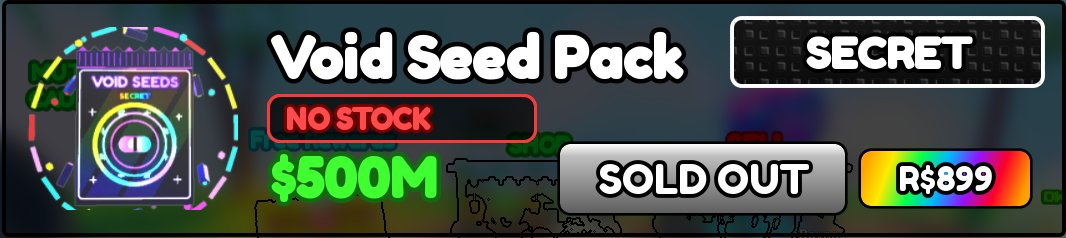
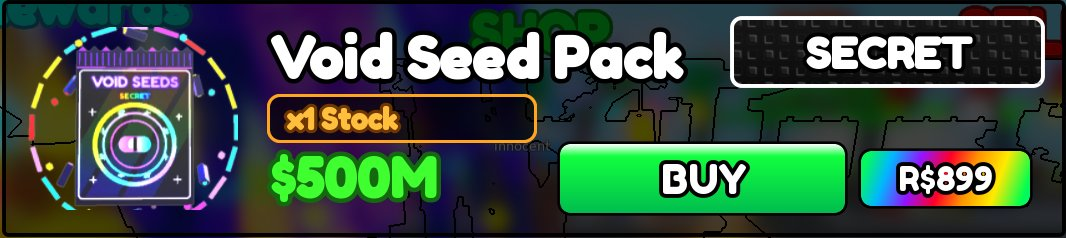
Mise a jour des stats

diff --git a/historique.js b/historique.js
@@ -1,4 +1,4 @@
-window.HISTORY = [["2026-10-14T00:55:39", "debut", "", ""], ["2026-10-14T01:25:29", "stock", "seed", "Spooky Seed Pack"], ["2026-10-14T01:30:10", "stock", "seed", "Celestial Seed Pack"], ["2026-10-14T02:05:31", "stock", "seed", "Spooky Seed Pack"], ["2026-10-14T02:40:12", "stock", "seed", "Celestial Seed Pack"], ["2026-10-14T02:40:12", "fin", "", ""], ["2026-10-14T06:29:55", "debut", "", ""], ["2026-10-14T07:09:20", "stock", "eggs", "Inferno Egg"], ["2026-10-14T07:09:22", "stock", "eggs", "Solar Egg"], ["2026-10-14T08:30:22", "stock", "seed", "Celestial Seed Pack"], ["2026-10-14T09:46:36", "fin", "", ""], ["2026-10-14T10:49:48", "debut", "", ""], ["2026-10-14T11:17:42", "fin", "", ""], ["2026-10-14T11:25:19", "debut", "", ""], ["2026-10-14T11:56:44", "fin", "", ""], ["2026-10-14T12:49:54", "debut", "", ""], ["2026-10-14T14:45:01", "stock", "seed", "Celestial Seed Pack"], ["2026-10-14T16:45:05", "stock", "seed", "Spooky Seed Pack"], ["2026-10-14T18:32:27", "stock", "seed", "Celestial Seed Pack"], ["2026-10-14T18:35:08", "stock", "seed", "Mutant Seed Pack"], ["2026-10-14T19:00:28", "stock", "seed", "Void Seed Pack"], ["2026-10-14T19:09:54", "fin", "", ""], ["2026-10-14T19:15:13", "debut", "", ""], ["2026-10-14T19:15:38", "stock", "seed", "Spooky Seed Pack"], ["2026-10-14T19:19:49", "fin", "", ""], ["2026-10-14T19:21:52", "debut", "", ""], ["2026-10-14T19:35:38", "stock", "seed", "Mutant Seed Pack"], ["2026-10-14T20:10:19", "stock", "seed", "Mutant Seed Pack"], ["2026-10-14T20:28:39", "stock", "eggs", "Inferno Egg"], ["2026-10-14T20:45:00", "stock", "seed", "Mutant Seed Pack"], ["2026-10-14T20:45:02", "stock", "seed", "Celestial Seed Pack"], ["2026-10-14T20:55:00", "stock", "seed", "Mutant Seed Pack"], ["2026-10-14T21:35:29", "fin", "", ""], ["2026-10-14T23:15:27", "debut", "", ""], ["2026-10-14T23:25:12", "stock", "seed", "Celestial Seed Pack"], ["2026-10-14T23:35:12", "stock", "seed", "Spooky Seed Pack"], ["2026-10-14T23:45:13", "stock", "seed", "Celestial Seed Pack"], ["2026-10-14T23:55:13", "stock", "seed", "Void Seed Pack"], ["2026-10-15T01:07:19", "fin", "", ""], ["2026-10-15T01:20:12", "debut", "", ""], ["2026-10-15T01:20:28", "fin", "", ""], ["2026-10-15T01:20:33", "debut", "", ""], ["2026-10-15T01:25:03", "stock", "seed", "Mutant Seed Pack"], ["2026-10-15T02:15:00", "stock", "seed", "Spooky Seed Pack"], ["2026-10-15T02:22:36", "stock", "eggs", "Inferno Egg"], ["2026-10-15T02:22:56", "stock", "eggs", "Inferno Egg"], ["2026-10-15T02:23:16", "stock", "eggs", "Inferno Egg"], ["2026-10-15T02:23:36", "stock", "eggs", "Inferno Egg"], ["2026-10-15T02:27:40", "fin", "", ""], ["2026-10-15T02:28:43", "debut", "", ""], ["2026-10-15T02:32:00", "fin", "", ""], ["2026-10-15T02:35:35", "debut", "", ""], ["2026-10-15T02:45:20", "stock", "seed", "Celestial Seed Pack"], ["2026-10-15T02:45:40", "stock", "eggs", "Solar Egg"], ["2026-10-15T02:50:00", "stock", "seed", "Mutant Seed Pack"], ["2026-10-15T05:20:04", "stock", "seed", "Spooky Seed Pack"], ["2026-10-15T05:25:24", "stock", "seed", "Void Seed Pack"], ["2026-10-15T05:55:25", "stock", "seed", "Mutant Seed Pack"], ["2026-10-15T07:15:27", "stock", "seed", "Celestial Seed Pack"], ["2026-10-15T07:30:07", "stock", "seed", "Celestial Seed Pack"], ["2026-10-15T07:50:08", "stock", "seed", "Mutant Seed Pack"], ["2026-10-15T08:04:28", "stock", "eggs", "Sealed Eye Egg"], ["2026-10-15T08:45:29", "stock", "seed", "Celestial Seed Pack"], ["2026-10-15T09:50:11", "stock", "seed", "Mutant Seed Pack"], ["2026-10-15T09:50:14", "stock", "seed", "Celestial Seed Pack"], ["2026-10-15T10:30:12", "stock", "seed", "Mutant Seed Pack"], ["2026-10-15T11:03:05", "fin", "", ""], ["2026-10-15T11:13:30", "debut", "", ""], ["2026-10-15T11:17:01", "fin", "", ""], ["2026-10-15T12:26:22", "debut", "", ""], ["2026-10-15T12:35:27", "stock", "seed", "Mutant Seed Pack"], ["2026-10-15T13:00:07", "stock", "seed", "Void Seed Pack"], ["2026-10-15T13:01:59", "fin", "", ""], ["2026-10-15T13:03:01", "debut", "", ""], ["2026-10-15T13:05:26", "stock", "seed", "Celestial Seed Pack"], ["2026-10-15T13:10:06", "stock", "seed", "Mutant Seed Pack"], ["2026-10-15T13:10:43", "fin", "", ""], ["2026-10-15T13:11:47", "debut", "", ""], ["2026-10-15T14:30:14", "stock", "seed", "Spooky Seed Pack"], ["2026-10-15T14:40:14", "stock", "seed", "Mutant Seed Pack"], ["2026-10-15T16:37:57", "stock", "eggs", "Inferno Egg"], ["2026-10-15T16:50:18", "stock", "seed", "Spooky Seed Pack"], ["2026-10-15T17:15:38", "stock", "seed", "Void Seed Pack"], ["2026-10-15T18:45:01", "stock", "seed", "Spooky Seed Pack"], ["2026-10-15T19:15:02", "stock", "seed", "Mutant Seed Pack"], ["2026-10-15T20:45:00", "stock", "seed", "Celestial Seed Pack"], ["2026-10-15T21:27:32", "fin", "", ""], ["2026-10-15T21:33:02", "debut", "", ""], ["2026-10-15T23:10:29", "fin", "", ""], ["2026-10-16T00:20:07", "debut", "", ""], ["2026-10-16T00:52:33", "stock", "seed", "Mutant Seed Pack"], ["2026-10-16T01:20:34", "stock", "seed", "Mutant Seed Pack"], ["2026-10-16T01:20:34", "stock", "seed", "Celestial Seed Pack"], ["2026-10-16T02:00:35", "stock", "seed", "Spooky Seed Pack"], ["2026-10-16T02:40:36", "stock", "seed", "Spooky Seed Pack"], ["2026-10-16T02:45:16", "stock", "seed", "Spooky Seed Pack"], ["2026-10-16T03:55:17", "stock", "seed", "Mutant Seed Pack"], ["2026-10-16T04:10:38", "stock", "seed", "Mutant Seed Pack"], ["2026-10-16T05:50:00", "stock", "seed", "Spooky Seed Pack"], ["2026-10-16T06:35:21", "stock", "seed", "Spooky Seed Pack"], ["2026-10-16T06:40:01", "stock", "seed", "Celestial Seed Pack"], ["2026-10-16T06:50:01", "stock", "seed", "Void Seed Pack"], ["2026-10-16T07:10:02", "stock", "seed", "Mutant Seed Pack"], ["2026-10-16T08:32:47", "fin", "", ""], ["2026-10-16T08:48:47", "debut", "", ""], ["2026-10-16T08:50:31", "stock", "seed", "Void Seed Pack"], ["2026-10-16T09:00:32", "stock", "seed", "Mutant Seed Pack"], ["2026-10-16T09:24:32", "fin", "", ""], ["2026-10-16T09:25:26", "debut", "", ""], ["2026-10-16T09:45:11", "stock", "seed", "Void Seed Pack"], ["2026-10-16T10:20:32", "stock", "seed", "Void Seed Pack"], ["2026-10-16T11:10:33", "stock", "seed", "Spooky Seed Pack"], ["2026-10-16T11:28:53", "stock", "eggs", "Solar Egg"], ["2026-10-16T12:10:34", "stock", "seed", "Spooky Seed Pack"], ["2026-10-16T13:03:50", "fin", "", ""], ["2026-10-16T13:08:05", "debut", "", ""], ["2026-10-16T13:15:29", "stock", "eggs", "Solar Egg"], ["2026-10-16T14:37:31", "stock", "eggs", "Inferno Egg"], ["2026-10-16T15:07:31", "fin", "", ""], ["2026-10-16T15:12:42", "debut", "", ""], ["2026-10-16T15:35:07", "stock", "seed", "Celestial Seed Pack"], ["2026-10-16T16:00:28", "stock", "seed", "Mutant Seed Pack"], ["2026-10-16T16:20:28", "stock", "seed", "Celestial Seed Pack"], ["2026-10-16T17:55:11", "stock", "seed", "Celestial Seed Pack"], ["2026-10-16T19:10:33", "stock", "seed", "Void Seed Pack"], ["2026-10-16T19:23:33", "stock", "eggs", "Inferno Egg"], ["2026-10-16T19:26:13", "stock", "eggs", "Sealed Eye Egg"], ["2026-10-16T19:30:08", "fin", "", ""], ["2026-10-16T19:31:11", "debut", "", ""], ["2026-10-16T19:40:16", "stock", "seed", "Mutant Seed Pack"], ["2026-10-16T21:02:37", "fin", "", ""], ["2026-10-16T23:01:21", "debut", "", ""], ["2026-10-16T23:01:30", "fin", "", ""], ["2026-10-16T23:03:40", "debut", "", ""], ["2026-10-16T23:03:43", "fin", "", ""], ["2026-10-16T23:06:38", "debut", "", ""], ["2026-10-16T23:06:41", "fin", "", ""], ["2026-10-16T23:09:21", "debut", "", ""], ["2026-10-16T23:09:29", "fin", "", ""], ["2026-10-16T23:15:48", "debut", "", ""], ["2026-10-17T00:00:14", "stock", "seed", "Spooky Seed Pack"], ["2026-10-17T00:21:33", "fin", "", ""], ["2026-10-17T00:35:25", "debut", "", ""], ["2026-10-17T00:35:49", "stock", "seed", "Spooky Seed Pack"], ["2026-10-17T00:35:55", "fin", "", ""], ["2026-10-17T00:55:32", "debut", "", ""], ["2026-10-17T00:55:59", "stock", "seed", "Celestial Seed Pack"], ["2026-10-17T00:56:02", "fin", "", ""], ["2026-10-17T01:10:53", "debut", "", ""], ["2026-10-17T01:10:58", "stock", "eggs", "Sealed Eye Egg"], ["2026-10-17T01:11:17", "stock", "seed", "Spooky Seed Pack"], ["2026-10-17T01:11:23", "fin", "", ""], ["2026-10-17T01:50:53", "debut", "", ""], ["2026-10-17T02:00:38", "stock", "seed", "Celestial Seed Pack"], ["2026-10-17T02:32:19", "stock", "eggs", "Inferno Egg"]];
+window.HISTORY = [["2026-10-14T00:55:39", "debut", "", ""], ["2026-10-14T01:25:29", "stock", "seed", "Spooky Seed Pack"], ["2026-10-14T01:30:10", "stock", "seed", "Celestial Seed Pack"], ["2026-10-14T02:05:31", "stock", "seed", "Spooky Seed Pack"], ["2026-10-14T02:40:12", "stock", "seed", "Celestial Seed Pack"], ["2026-10-14T02:40:12", "fin", "", ""], ["2026-10-14T06:29:55", "debut", "", ""], ["2026-10-14T07:09:20", "stock", "eggs", "Inferno Egg"], ["2026-10-14T07:09:22", "stock", "eggs", "Solar Egg"], ["2026-10-14T08:30:22", "stock", "seed", "Celestial Seed Pack"], ["2026-10-14T09:46:36", "fin", "", ""], ["2026-10-14T10:49:48", "debut", "", ""], ["2026-10-14T11:17:42", "fin", "", ""], ["2026-10-14T11:25:19", "debut", "", ""], ["2026-10-14T11:56:44", "fin", "", ""], ["2026-10-14T12:49:54", "debut", "", ""], ["2026-10-14T14:45:01", "stock", "seed", "Celestial Seed Pack"], ["2026-10-14T16:45:05", "stock", "seed", "Spooky Seed Pack"], ["2026-10-14T18:32:27", "stock", "seed", "Celestial Seed Pack"], ["2026-10-14T18:35:08", "stock", "seed", "Mutant Seed Pack"], ["2026-10-14T19:00:28", "stock", "seed", "Void Seed Pack"], ["2026-10-14T19:09:54", "fin", "", ""], ["2026-10-14T19:15:13", "debut", "", ""], ["2026-10-14T19:15:38", "stock", "seed", "Spooky Seed Pack"], ["2026-10-14T19:19:49", "fin", "", ""], ["2026-10-14T19:21:52", "debut", "", ""], ["2026-10-14T19:35:38", "stock", "seed", "Mutant Seed Pack"], ["2026-10-14T20:10:19", "stock", "seed", "Mutant Seed Pack"], ["2026-10-14T20:28:39", "stock", "eggs", "Inferno Egg"], ["2026-10-14T20:45:00", "stock", "seed", "Mutant Seed Pack"], ["2026-10-14T20:45:02", "stock", "seed", "Celestial Seed Pack"], ["2026-10-14T20:55:00", "stock", "seed", "Mutant Seed Pack"], ["2026-10-14T21:35:29", "fin", "", ""], ["2026-10-14T23:15:27", "debut", "", ""], ["2026-10-14T23:25:12", "stock", "seed", "Celestial Seed Pack"], ["2026-10-14T23:35:12", "stock", "seed", "Spooky Seed Pack"], ["2026-10-14T23:45:13", "stock", "seed", "Celestial Seed Pack"], ["2026-10-14T23:55:13", "stock", "seed", "Void Seed Pack"], ["2026-10-15T01:07:19", "fin", "", ""], ["2026-10-15T01:20:12", "debut", "", ""], ["2026-10-15T01:20:28", "fin", "", ""], ["2026-10-15T01:20:33", "debut", "", ""], ["2026-10-15T01:25:03", "stock", "seed", "Mutant Seed Pack"], ["2026-10-15T02:15:00", "stock", "seed", "Spooky Seed Pack"], ["2026-10-15T02:22:36", "stock", "eggs", "Inferno Egg"], ["2026-10-15T02:22:56", "stock", "eggs", "Inferno Egg"], ["2026-10-15T02:23:16", "stock", "eggs", "Inferno Egg"], ["2026-10-15T02:23:36", "stock", "eggs", "Inferno Egg"], ["2026-10-15T02:27:40", "fin", "", ""], ["2026-10-15T02:28:43", "debut", "", ""], ["2026-10-15T02:32:00", "fin", "", ""], ["2026-10-15T02:35:35", "debut", "", ""], ["2026-10-15T02:45:20", "stock", "seed", "Celestial Seed Pack"], ["2026-10-15T02:45:40", "stock", "eggs", "Solar Egg"], ["2026-10-15T02:50:00", "stock", "seed", "Mutant Seed Pack"], ["2026-10-15T05:20:04", "stock", "seed", "Spooky Seed Pack"], ["2026-10-15T05:25:24", "stock", "seed", "Void Seed Pack"], ["2026-10-15T05:55:25", "stock", "seed", "Mutant Seed Pack"], ["2026-10-15T07:15:27", "stock", "seed", "Celestial Seed Pack"], ["2026-10-15T07:30:07", "stock", "seed", "Celestial Seed Pack"], ["2026-10-15T07:50:08", "stock", "seed", "Mutant Seed Pack"], ["2026-10-15T08:04:28", "stock", "eggs", "Sealed Eye Egg"], ["2026-10-15T08:45:29", "stock", "seed", "Celestial Seed Pack"], ["2026-10-15T09:50:11", "stock", "seed", "Mutant Seed Pack"], ["2026-10-15T09:50:14", "stock", "seed", "Celestial Seed Pack"], ["2026-10-15T10:30:12", "stock", "seed", "Mutant Seed Pack"], ["2026-10-15T11:03:05", "fin", "", ""], ["2026-10-15T11:13:30", "debut", "", ""], ["2026-10-15T11:17:01", "fin", "", ""], ["2026-10-15T12:26:22", "debut", "", ""], ["2026-10-15T12:35:27", "stock", "seed", "Mutant Seed Pack"], ["2026-10-15T13:00:07", "stock", "seed", "Void Seed Pack"], ["2026-10-15T13:01:59", "fin", "", ""], ["2026-10-15T13:03:01", "debut", "", ""], ["2026-10-15T13:05:26", "stock", "seed", "Celestial Seed Pack"], ["2026-10-15T13:10:06", "stock", "seed", "Mutant Seed Pack"], ["2026-10-15T13:10:43", "fin", "", ""], ["2026-10-15T13:11:47", "debut", "", ""], ["2026-10-15T14:30:14", "stock", "seed", "Spooky Seed Pack"], ["2026-10-15T14:40:14", "stock", "seed", "Mutant Seed Pack"], ["2026-10-15T16:37:57", "stock", "eggs", "Inferno Egg"], ["2026-10-15T16:50:18", "stock", "seed", "Spooky Seed Pack"], ["2026-10-15T17:15:38", "stock", "seed", "Void Seed Pack"], ["2026-10-15T18:45:01", "stock", "seed", "Spooky Seed Pack"], ["2026-10-15T19:15:02", "stock", "seed", "Mutant Seed Pack"], ["2026-10-15T20:45:00", "stock", "seed", "Celestial Seed Pack"], ["2026-10-15T21:27:32", "fin", "", ""], ["2026-10-15T21:33:02", "debut", "", ""], ["2026-10-15T23:10:29", "fin", "", ""], ["2026-10-16T00:20:07", "debut", "", ""], ["2026-10-16T00:52:33", "stock", "seed", "Mutant Seed Pack"], ["2026-10-16T01:20:34", "stock", "seed", "Mutant Seed Pack"], ["2026-10-16T01:20:34", "stock", "seed", "Celestial Seed Pack"], ["2026-10-16T02:00:35", "stock", "seed", "Spooky Seed Pack"], ["2026-10-16T02:40:36", "stock", "seed", "Spooky Seed Pack"], ["2026-10-16T02:45:16", "stock", "seed", "Spooky Seed Pack"], ["2026-10-16T03:55:17", "stock", "seed", "Mutant Seed Pack"], ["2026-10-16T04:10:38", "stock", "seed", "Mutant Seed Pack"], ["2026-10-16T05:50:00", "stock", "seed", "Spooky Seed Pack"], ["2026-10-16T06:35:21", "stock", "seed", "Spooky Seed Pack"], ["2026-10-16T06:40:01", "stock", "seed", "Celestial Seed Pack"], ["2026-10-16T06:50:01", "stock", "seed", "Void Seed Pack"], ["2026-10-16T07:10:02", "stock", "seed", "Mutant Seed Pack"], ["2026-10-16T08:32:47", "fin", "", ""], ["2026-10-16T08:48:47", "debut", "", ""], ["2026-10-16T08:50:31", "stock", "seed", "Void Seed Pack"], ["2026-10-16T09:00:32", "stock", "seed", "Mutant Seed Pack"], ["2026-10-16T09:24:32", "fin", "", ""], ["2026-10-16T09:25:26", "debut", "", ""], ["2026-10-16T09:45:11", "stock", "seed", "Void Seed Pack"], ["2026-10-16T10:20:32", "stock", "seed", "Void Seed Pack"], ["2026-10-16T11:10:33", "stock", "seed", "Spooky Seed Pack"], ["2026-10-16T11:28:53", "stock", "eggs", "Solar Egg"], ["2026-10-16T12:10:34", "stock", "seed", "Spooky Seed Pack"], ["2026-10-16T13:03:50", "fin", "", ""], ["2026-10-16T13:08:05", "debut", "", ""], ["2026-10-16T13:15:29", "stock", "eggs", "Solar Egg"], ["2026-10-16T14:37:31", "stock", "eggs", "Inferno Egg"], ["2026-10-16T15:07:31", "fin", "", ""], ["2026-10-16T15:12:42", "debut", "", ""], ["2026-10-16T15:35:07", "stock", "seed", "Celestial Seed Pack"], ["2026-10-16T16:00:28", "stock", "seed", "Mutant Seed Pack"], ["2026-10-16T16:20:28", "stock", "seed", "Celestial Seed Pack"], ["2026-10-16T17:55:11", "stock", "seed", "Celestial Seed Pack"], ["2026-10-16T19:10:33", "stock", "seed", "Void Seed Pack"], ["2026-10-16T19:23:33", "stock", "eggs", "Inferno Egg"], ["2026-10-16T19:26:13", "stock", "eggs", "Sealed Eye Egg"], ["2026-10-16T19:30:08", "fin", "", ""], ["2026-10-16T19:31:11", "debut", "", ""], ["2026-10-16T19:40:16", "stock", "seed", "Mutant Seed Pack"], ["2026-10-16T21:02:37", "fin", "", ""], ["2026-10-16T23:01:21", "debut", "", ""], ["2026-10-16T23:01:30", "fin", "", ""], ["2026-10-16T23:03:40", "debut", "", ""], ["2026-10-16T23:03:43", "fin", "", ""], ["2026-10-16T23:06:38", "debut", "", ""], ["2026-10-16T23:06:41", "fin", "", ""], ["2026-10-16T23:09:21", "debut", "", ""], ["2026-10-16T23:09:29", "fin", "", ""], ["2026-10-16T23:15:48", "debut", "", ""], ["2026-10-17T00:00:14", "stock", "seed", "Spooky Seed Pack"], ["2026-10-17T00:21:33", "fin", "", ""], ["2026-10-17T00:35:25", "debut", "", ""], ["2026-10-17T00:35:49", "stock", "seed", "Spooky Seed Pack"], ["2026-10-17T00:35:55", "fin", "", ""], ["2026-10-17T00:55:32", "debut", "", ""], ["2026-10-17T00:55:59", "stock", "seed", "Celestial Seed Pack"], ["2026-10-17T00:56:02", "fin", "", ""], ["2026-10-17T01:10:53", "debut", "", ""], ["2026-10-17T01:10:58", "stock", "eggs", "Sealed Eye Egg"], ["2026-10-17T01:11:17", "stock", "seed", "Spooky Seed Pack"], ["2026-10-17T01:11:23", "fin", "", ""], ["2026-10-17T01:50:53", "debut", "", ""], ["2026-10-17T02:00:38", "stock", "seed", "Celestial Seed Pack"], ["2026-10-17T02:32:19", "stock", "eggs", "Inferno Egg"], ["2026-10-17T03:10:00", "stock", "seed", "Void Seed Pack"]];
 window.ITEMS = [{"shop": "eggs", "name": "Inferno Egg"}, {"shop": "eggs", "name": "Solar Egg"}, {"shop": "eggs", "name": "Sealed Eye Egg"}, {"shop": "eggs", "name": "Abyss Egg"}, {"shop": "seed", "name": "Void Seed Pack"}, {"shop": "seed", "name": "Celestial Seed Pack"}, {"shop": "seed", "name": "Spooky Seed Pack"}, {"shop": "seed", "name": "Mutant Seed Pack"}];
-window.GENERATED = "2026-10-17T03:02:40";
+window.GENERATED = "2026-10-17T03:10:03";
 window.BOT = {"actif": true};

diff --git a/articles.js b/articles.js
@@ -1,1 +1,1 @@
-window.ARTICLE_IMAGES = {"Inferno Egg": "articles/inferno-egg.jpg?v=1792197139", "Solar Egg": "articles/solar-egg.jpg?v=1792192117", "Sealed Eye Egg": "articles/sealed-eye-egg.jpg?v=1792192258", "Abyss Egg": "articles/abyss-egg.jpg?v=1792192117", "Void Seed Pack": "articles/void-seed-pack.jpg?v=1792192117", "Celestial Seed Pack": "articles/celestial-seed-pack.jpg?v=1792195238", "Spooky Seed Pack": "articles/spooky-seed-pack.jpg?v=1792192278"};
+window.ARTICLE_IMAGES = {"Inferno Egg": "articles/inferno-egg.jpg?v=1792197139", "Solar Egg": "articles/solar-egg.jpg?v=1792192117", "Sealed Eye Egg": "articles/sealed-eye-egg.jpg?v=1792192258", "Abyss Egg": "articles/abyss-egg.jpg?v=1792192117", "Void Seed Pack": "articles/void-seed-pack.jpg?v=1792199400", "Celestial Seed Pack": "articles/celestial-seed-pack.jpg?v=1792195238", "Spooky Seed Pack": "articles/spooky-seed-pack.jpg?v=1792192278"};
